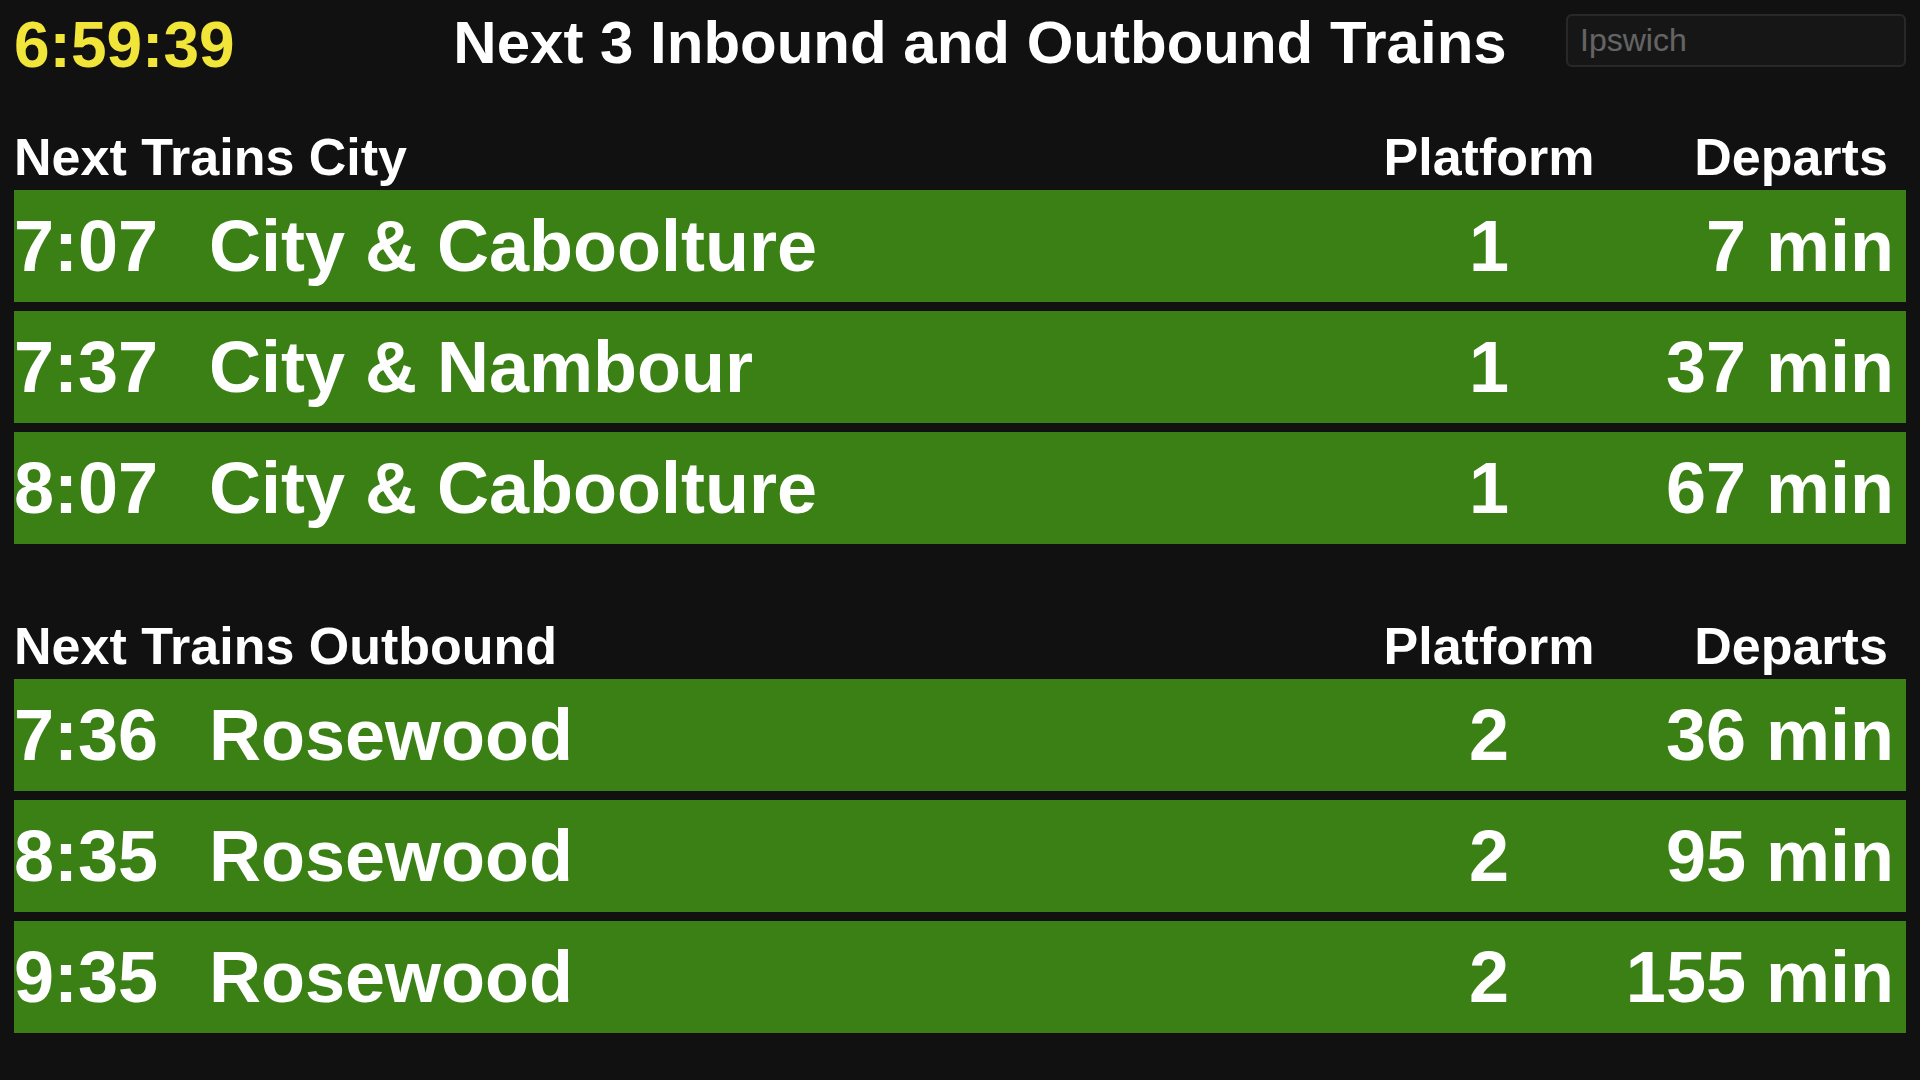
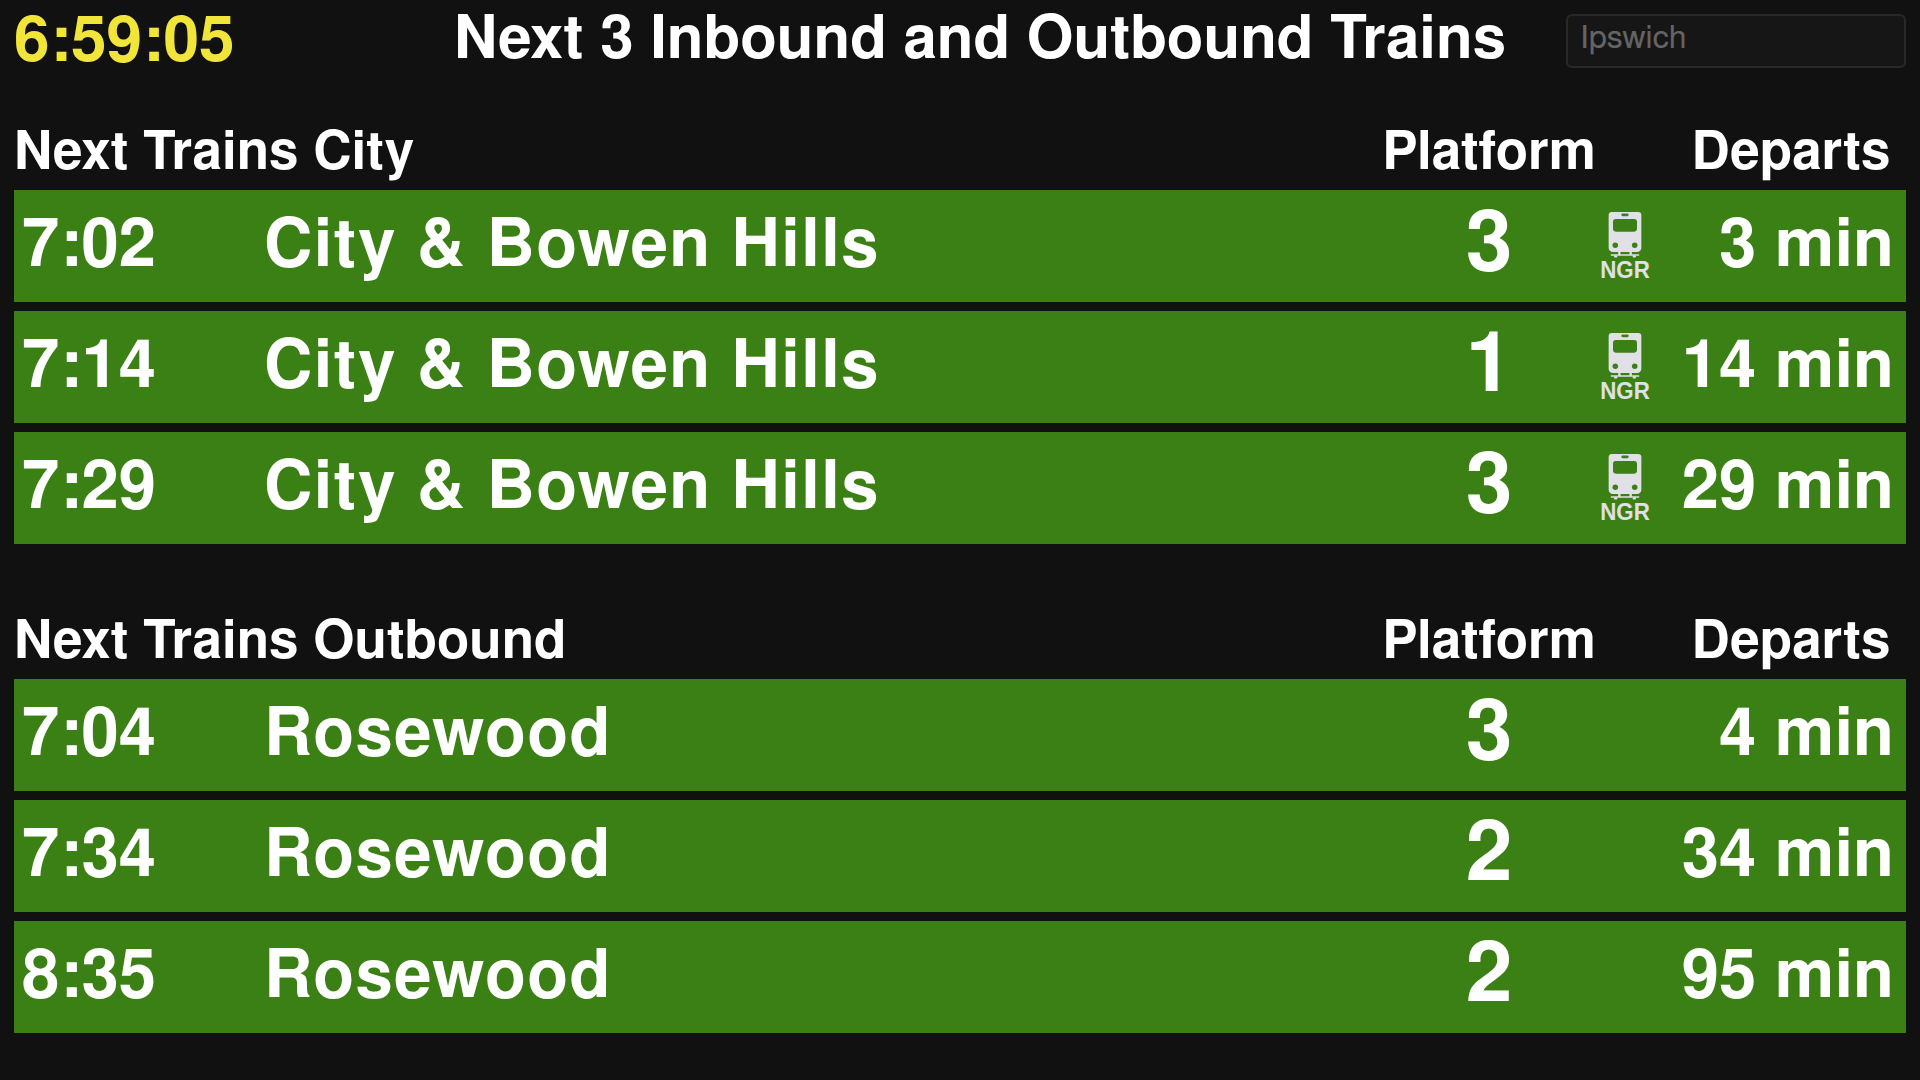
New ref image

diff --git a/README.md b/README.md
@@ -2,15 +2,31 @@
 
 A live departure board for any South East Queensland rail station, built from the TransLink GTFS static and GTFS-realtime feeds. A FastAPI backend serves the sign page (`web/`) and a JSON API (`/api/stations`, `/api/departures`). The default station is Northgate, styled after its real sign.
 
+## Features
+
+- Live departures from the TransLink GTFS-realtime feed (delays, cancellations, skipped stops, platform changes), falling back to the timetable if the feed is unavailable.
+- Searchable station picker; the choice is kept in the URL.
+- Line colours, express ("Exp") markers and "City & ..." destinations as on the real signs.
+- NGR (New Generation Rollingstock) icon on services known to be run by an NGR, based on trainspotter sightings (see [NGR icon](#ngr-icon)).
+- Roma Street single list of 6 trains with a scrolling message line.
+- A centred "No scheduled services from this platform" message when a station has nothing upcoming.
+- Scales to any screen size, so it can be left running full screen on a spare display.
+
 ## Examples
 
-Roma Street shows a single list of the next 6 trains, with a scrolling message on the last line:
+Northgate, the default station, shows the next 3 trains to the city and the next 3 to the north, with NGR icons:
+
+![Northgate](docs/northgate.png)
+
+Roma Street shows a single list of the next 6 trains, including Gold Coast and Domestic Airport services, with a scrolling message on the last line:
 
 ![Roma Street](docs/roma-street.png)
 
 Other stations, such as Ipswich, show trains to the city and trains away from it:
 
 ![Ipswich](docs/ipswich.png)
+
+The screenshots were taken with `--infer-ngr` so that the NGR icon shows on most services.
 
 ## Setup
 
@@ -50,6 +66,7 @@ Sections are split into trains heading to the city (inbound) and away from it (o
 | `--host` | `127.0.0.1` | Interface to bind to. Use `0.0.0.0` to serve other devices on the network. |
 | `--port` | `8731` | Port to listen on. |
 | `--show-attribution` | off | Show the TransLink data attribution / licence line at the bottom of the sign. |
+| `--infer-ngr` | off | Also guess NGR from the run code (a "D" prefix) where there are no sightings. |
 
 Example:
 
@@ -63,7 +80,31 @@ python -m backend --host 0.0.0.0 --port 9000 --show-attribution
 uvicorn backend.app:app --port 8731
 ```
 
-This skips the `--station` and `--show-attribution` options.
+This skips the `--station`, `--show-attribution` and `--infer-ngr` options.
+
+## NGR icon
+
+The GTFS feeds do not say what train runs a service, so the NGR icon is based on trainspotter sightings in `backend/stock_sightings.csv`. Each row says "run code X was seen to be stock Y", where the run code is the end of the GTFS trip ID (e.g. `...-44306-D103` is run `D103`).
+
+- Services are assumed to be older stock unless sightings say NGR.
+- An exact run code needs 1 sighting; a glob such as `D1*` needs 2. The most specific pattern wins.
+- Trips calling at stations NGRs cannot serve (Ferny Grove line, west of Ipswich) are never shown as NGR.
+- With `--infer-ngr`, runs with a "D" prefix and no sightings are guessed to be NGR.
+- The file is re-read when it changes, so edits apply without restarting.
+
+Manage sightings with `python -m backend.stock`:
+
+```bash
+python -m backend.stock add D880 NGR --source "platform photo"
+python -m backend.stock add "D1*" IMU --source "platform photo"
+
+# Turn the rows of a real sign photo into sightings (dry run unless --save)
+python -m backend.stock sign --station Northgate --date 2026-10-19 --time 17:30 \
+  '5:42 1 NGR Cleveland' '5:57 1 - Cleveland' --save
+
+# Compare sightings with the run-code guess and the feed
+python -m backend.stock check
+```
 
 ## Troubleshooting
 
